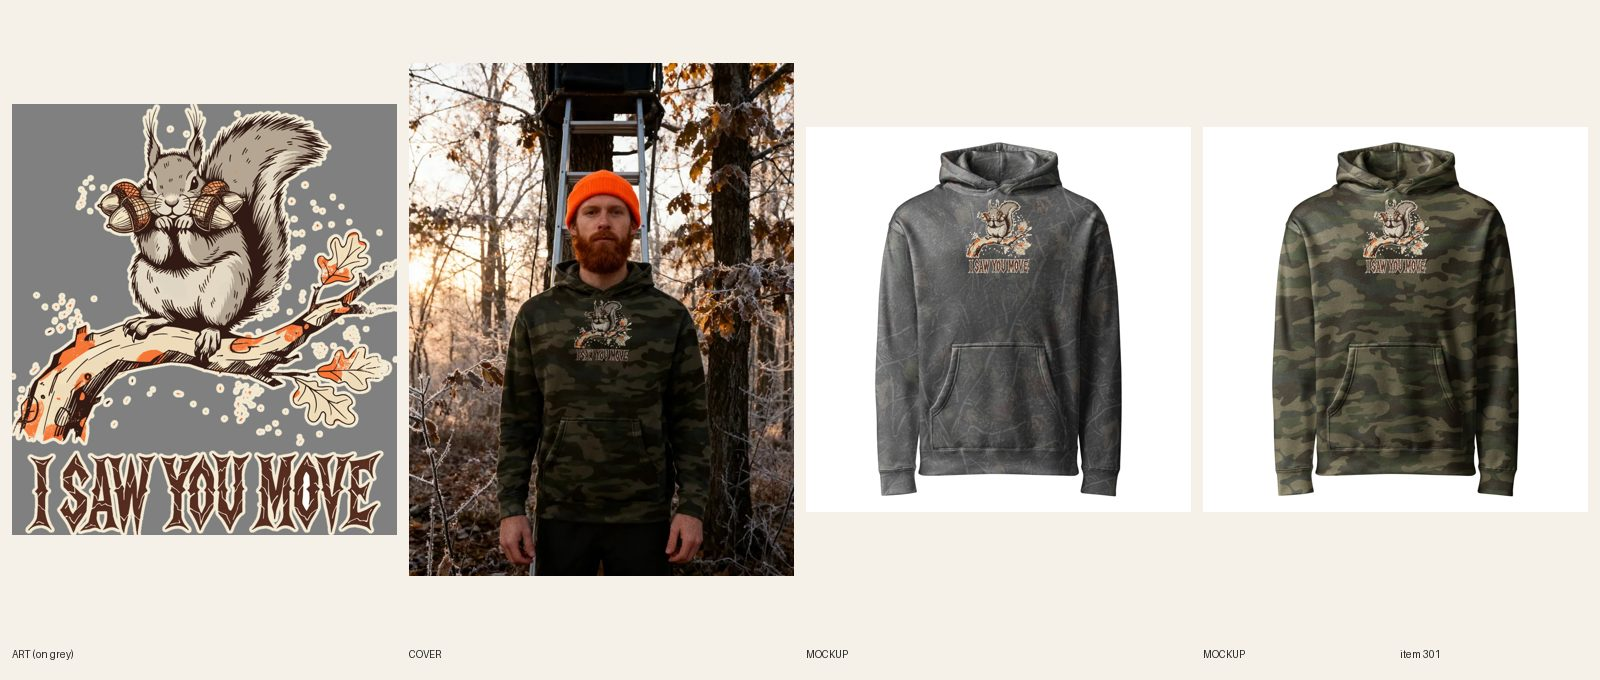
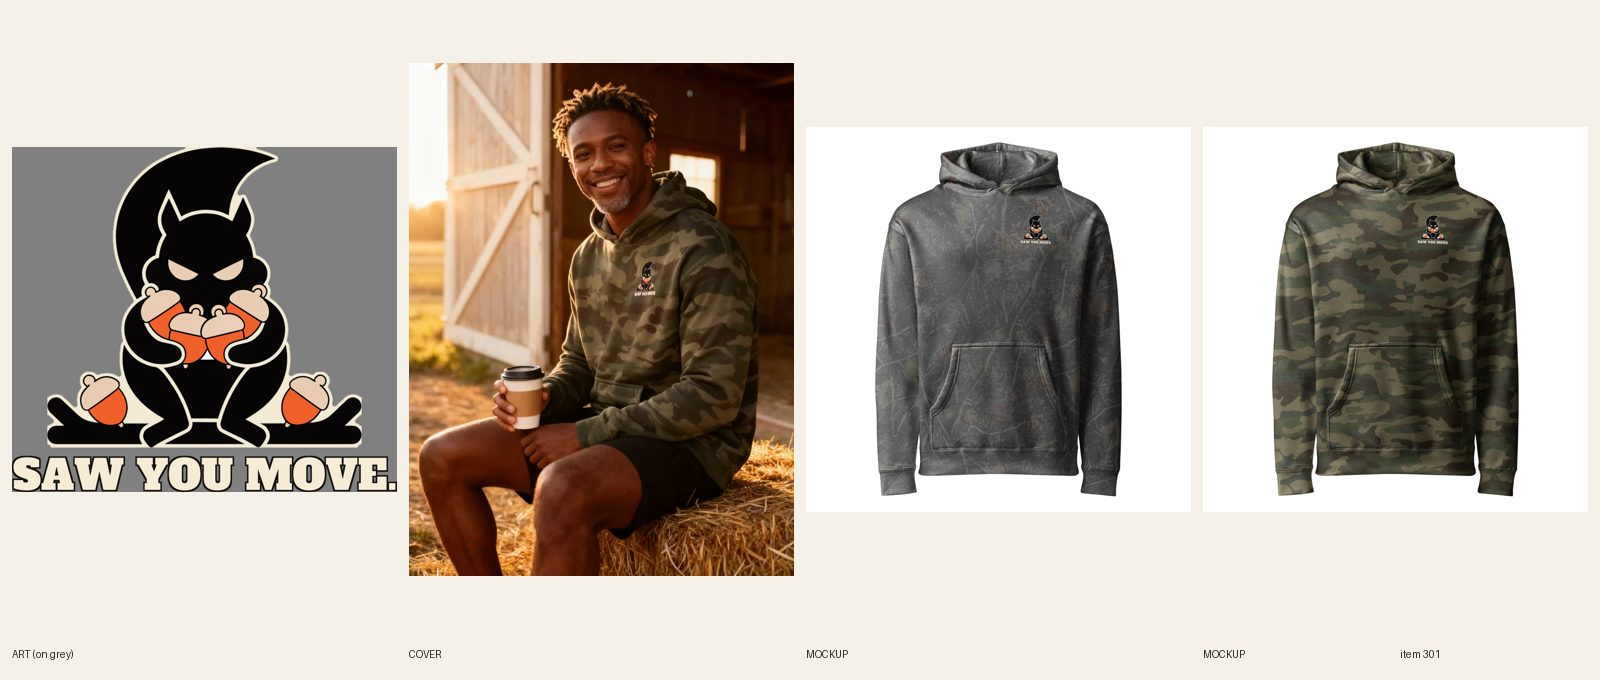
[B] review 301 camo redo 12 (squirrel B3 print, lifestyle photos); run end, release lock
Claude-Session: https://claude.ai/code/session_01JmH7HE2vEXJPHQjsQo1sTm

Changed region(s): [[0.0, 0.0926, 0.5, 0.8647], [0.8438, 0.2779, 0.9062, 0.4015], [0.5938, 0.2779, 0.6562, 0.4015]]

diff --git a/docs/pipeline/301-camo-hoodie-i-saw-you-move-squirrel.md b/docs/pipeline/301-camo-hoodie-i-saw-you-move-squirrel.md
@@ -1,4 +1,4 @@
-status: REDO
+status: REVIEW
 lane: B
 type: new
 id: 301
@@ -26,3 +26,4 @@ handle: mens-hunting-i-saw-you-move-squirrel-camo-hoodie
 - 2026-10-17 02:14 UTC director: approved from docs/review/301.jpg; ACTIVE + Online Store + Headless + Google; cohesion-audit --handle PASS (0 warn). LIVE.
 - 2026-10-22 22:00 UTC Claude (Sam): REDO, camo redo #12 of 27, style S8. New art in its own style, no box, no condensed sans, placement per docs/backlog/camo-redo.md (never TOP 0). Redo in place.
 - 2026-10-22 22:40 UTC Claude (Sam): placement A/B test, this item is B3 (left chest at the seam, tag placement-b).
+- 2026-10-25 21:49 UTC [B]: camo-redo #12 (S8 left chest minimal on B3, tag placement-b), in place on product 15362829287728. New art: 1 Recraft call (suspicious acorn-cheeked squirrel on a branch, flat black/orange/cream, no lettering), cream halo; line shortened to SAW YOU MOVE. (3 words, same idea; 7i: title now "Men's Hunting – Saw You Move Squirrel Camo Hoodie", SEO title and meta updated) in Alfa Slab One (lane B last 5 faces: Bowlby, Playfair, Bevan, Lobster, Rye; Alfa not among them), cream with dark keyline. Art 87% of print height, cap ~222 px at file width 2352 (FW625 scale ~59 px >= 53). Print 2352 x 2110, FW625 TOP300 LEFT1475. Light file n/a (Darkwood and Forest only). R7.7: 14/14 on file 1094879628, back logo 1080398177. Front mockups replaced in place. Copy, SEO, FAQ (5), placement-b tag rewritten. Lifestyle: registry 1156, 5 seedream calls: 2 rejected (wrong print "SAWWOOD" and oversized lettering; stray vertical text on the pocket), kept barn hay-bale cover (caption soft blur, icon reads) and forest first-light image 2. covers.ts alt updated. Audit PASS 0 warn. Sheet docs/review/301.jpg. Product is ACTIVE: director to confirm. fal ~$0.46.

diff --git a/docs/intake-log.md b/docs/intake-log.md
@@ -1,4 +1,5 @@
-RUNNING lane B since 2026-10-25 21:27 UTC
+2026-10-25 21:49 UTC — [B] Builder run end: 2 items, camo redo #11 #901 (retro goat, A+) and #12 #301 (squirrel, B3); both ACTIVE, director to confirm. New products today: 0 of 6. fal ~$0.70. Lock released.
+2026-10-25 21:49 UTC — [B] REVIEW #301 Men's Hunting – Saw You Move Squirrel Camo Hoodie (camo-redo 12 of 27, S8 on B3, FW625 TOP300 LEFT1475, 14/14 on 1094879628, cap 59 px at FW625, art 87% of height, Alfa Slab One; 2 lifestyle photos). Product ACTIVE, director to confirm. fal ~$0.46.
 2026-10-25 21:40 UTC — [B] REVIEW #901 Women's Hiking – Treat Me Like Wildlife Camo Hoodie (camo-redo 11 of 27, S4 on A+, FW1500 TOP400, 14/14 on 1094870105, headline 2864 / punch 2978 px = 104%, subject 100%, type 701 of 3035 px, Bowlby One; 2 lifestyle photos). Product ACTIVE, director to confirm. fal ~$0.24.
 2026-10-25 18:02 UTC — [B] Builder run end: 2 items, camo redo #9 #496 (sign-painter buck, A+) and #10 #224 (mallard Quack of Dawn, B3); both ACTIVE, director to confirm. New products today: 0 of 6. fal ~$1.8. Lock released.
 2026-10-25 18:01 UTC — [B] REVIEW #224 Men's Hunting – Quack of Dawn Camo Hoodie (camo-redo 10 of 27, S1 on B3, FW625 TOP300 LEFT1475, 14/14 on 1094696415 + 1094696454 (Sandstone light file), art 75% of height, Playfair Display; 2 lifestyle photos, soft-blur caption). fal ~$0.80.
